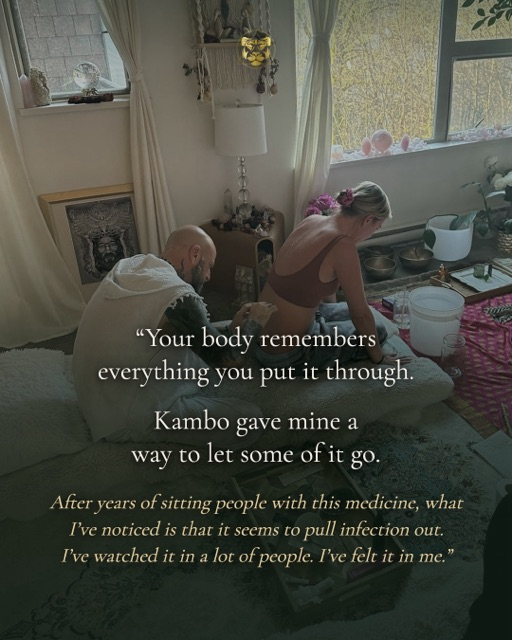
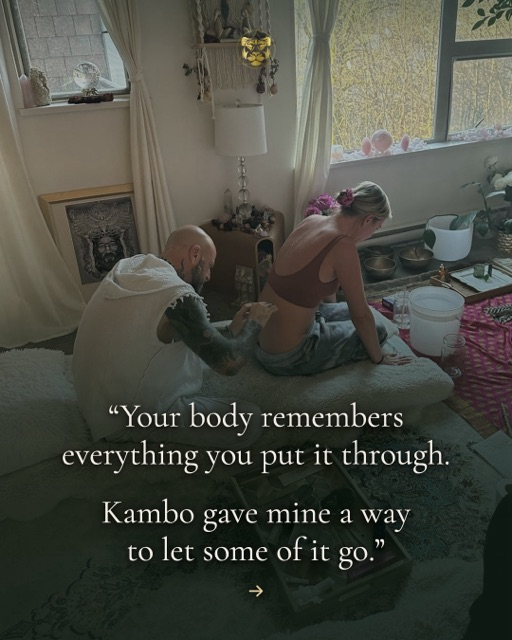
Calendar: Aug 24 carousel to 7 slides, stronger closing claim
Splits the closer: slide 6 is the reflection, slide 7 lands the
practitioner line. Caption updated to match.

Changed region(s): [[0.125, 0.5, 0.875, 0.75], [0.0938, 0.7812, 0.9062, 0.9375]]

diff --git a/index.html b/index.html
@@ -465,18 +465,19 @@ const POSTS = [
   { date:"2026-08-24", pillar:"reflection", title:"How Kambo Removed the Cyst on My Neck", notesFirst:true,
     platform:"Instagram + Facebook", format:"Carousel",
     todos:[
-      "Post the 6 slides in order (Slide 1 \u2192 6)",
+      "Post the 7 slides in order (Slide 1 \u2192 7)",
       "Post from Blaine\u2019s voice, first person"
     ],
-    caption:"Kambo helped me clear a cyst I’d had for years.\n\nWhen I was battling addiction I spent a long time not taking care of my body, and I ended up with a cyst on my neck. I watched it grow. I was always squeezing it, trying to get it to release, and it never would.\n\nYears later I wanted to detox, so I sat for three sessions of Kambo. After the third one I was laying in bed, put my hand to my neck, and felt something oozing down it. The cyst had burst on its own.\n\nAfter years of sitting people with this medicine, what I’ve noticed is that Kambo seems to pull infection out of the body. I’ve watched it happen in a lot of people. I’ve felt it happen in me.\n\nThis is my experience, not a promise of what it will do for you. Kambo is a serious medicine and should only be taken with a trained practitioner.",
-    notes:"Blaine’s story about the cyst on his neck, told first person across six slides. Slides are built and ready to post.\n\n# The flow\n1. Hook: Kambo helped me clear a cyst I had for years.\n2. Where it came from: years of not taking care of his body during addiction.\n3. What it was like: watching it grow, constantly squeezing it, it never released.\n4. The turn: wanting to detox, three sessions of Kambo.\n5. The moment: laying in bed after the third session, the cyst burst on its own.\n6. Close: the practitioner observation, hedged as what he has noticed.\n\n**Heads up:** every claim stays inside his own experience. Nothing here promises Kambo treats or removes cysts for anyone else, and the caption says so directly.",
+    caption:"Kambo helped me clear a cyst I’d had for years.\n\nWhen I was battling addiction I spent a long time not taking care of my body, and I ended up with a cyst on my neck. I watched it grow. I was always squeezing it, trying to get it to release, and it never would.\n\nYears later I wanted to detox, so I sat for three sessions of Kambo. After the third one I was laying in bed, put my hand to my neck, and felt something oozing down it. The cyst had burst on its own.\n\nAfter years of sitting people with this medicine, I’ve stopped calling it a coincidence. Kambo pulls infection out of the body. I’ve watched it happen in a lot of people. I’ve felt it happen in me.\n\nThis is my experience, not a promise of what it will do for you. Kambo is a serious medicine and should only be taken with a trained practitioner.",
+    notes:"Blaine’s story about the cyst on his neck, told first person across seven slides. Slides are built and ready to post.\n\n# The flow\n1. Hook: Kambo helped me clear a cyst I had for years.\n2. Where it came from: years of not taking care of his body during addiction.\n3. What it was like: watching it grow, constantly squeezing it, it never released.\n4. The turn: wanting to detox, three sessions of Kambo.\n5. The moment: laying in bed after the third session, the cyst burst on its own.\n6. Reflection: your body remembers what you put it through.\n7. Close: the practitioner line, said with conviction but still anchored in what he has seen.\n\n**Heads up:** every claim stays inside his own experience. Nothing here promises Kambo treats or removes cysts for anyone else, and the caption says so directly.",
     assets:[
       {src:"assets/carousel-kambo-cyst/01.jpg", thumb:"assets/carousel-kambo-cyst/thumb/01.jpg", cap:"Slide 1: Hook \u2014 Kambo helped me clear a cyst I\u2019d had for years"},
       {src:"assets/carousel-kambo-cyst/02.jpg", thumb:"assets/carousel-kambo-cyst/thumb/02.jpg", cap:"Slide 2: Where it came from"},
       {src:"assets/carousel-kambo-cyst/03.jpg", thumb:"assets/carousel-kambo-cyst/thumb/03.jpg", cap:"Slide 3: Watching it grow"},
       {src:"assets/carousel-kambo-cyst/04.jpg", thumb:"assets/carousel-kambo-cyst/thumb/04.jpg", cap:"Slide 4: Three sessions of Kambo"},
       {src:"assets/carousel-kambo-cyst/05.jpg", thumb:"assets/carousel-kambo-cyst/thumb/05.jpg", cap:"Slide 5: The cyst burst"},
-      {src:"assets/carousel-kambo-cyst/06.jpg", thumb:"assets/carousel-kambo-cyst/thumb/06.jpg", cap:"Slide 6: Close \u2014 what he has noticed as a practitioner"}
+      {src:"assets/carousel-kambo-cyst/06.jpg", thumb:"assets/carousel-kambo-cyst/thumb/06.jpg", cap:"Slide 6: Your body remembers what you put it through"},
+      {src:"assets/carousel-kambo-cyst/07.jpg", thumb:"assets/carousel-kambo-cyst/thumb/07.jpg", cap:"Slide 7: Close \u2014 Kambo pulls infection out of the body"}
     ] },
 
   { date:"2026-08-26", pillar:"teaching", title:"Kambo & My Cat Allergies", notesFirst:true,
